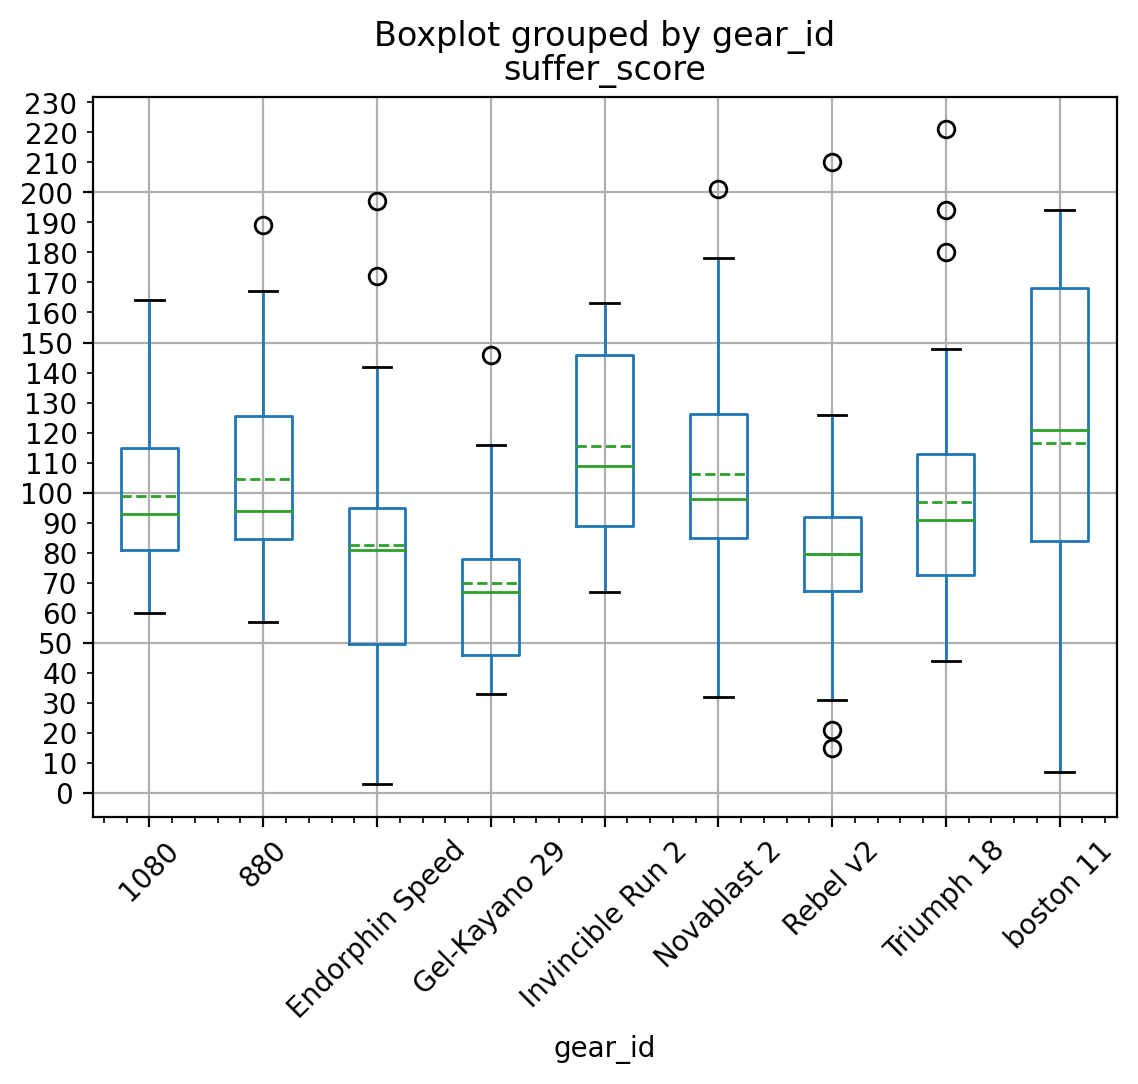
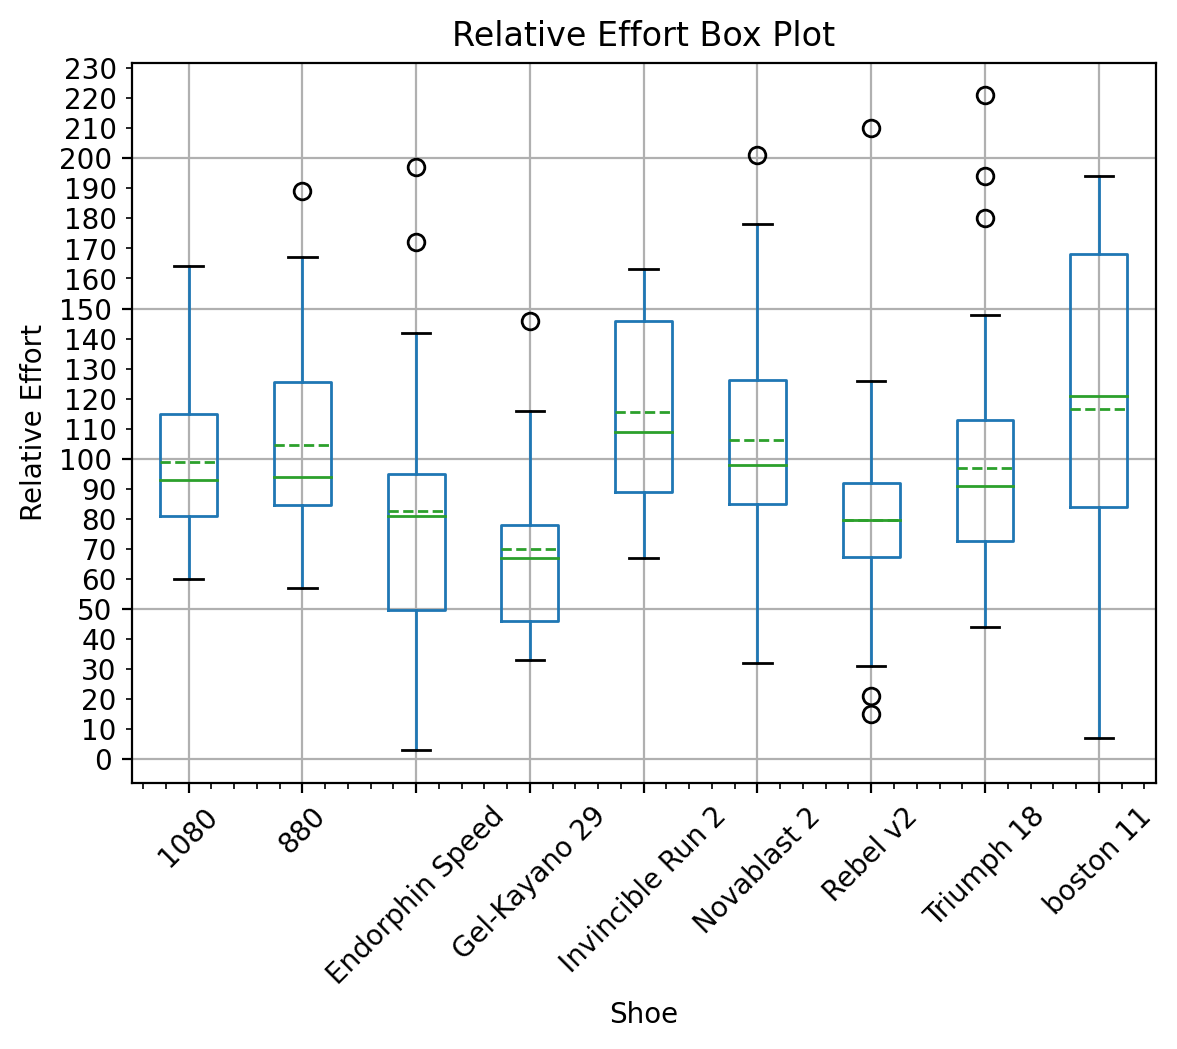
Added login template, updated README.md, cleaned up various things

diff --git a/main.py b/main.py
@@ -201,9 +201,11 @@ ax9 = df.boxplot(by='gear_id', column=['suffer_score'], showmeans=True, meanline
 plt.xticks(rotation=45)
 plt.minorticks_on()
 ax9.yaxis.set_minor_formatter(plticker.ScalarFormatter())
+ax9.get_figure().suptitle('')
 ax9.set_xlabel('Shoe')
 ax9.set_ylabel('Relative Effort')
 ax9.set_title('Relative Effort Box Plot')
+fig9.tight_layout()
 plt.savefig('relative_effort_box_plot', bbox_inches='tight', dpi=200)
 
 # This boxplot is using the un-grouped dataframe (df) instead of the dataframe grouped by gear (df2)
@@ -212,9 +214,11 @@ ax10 = df.boxplot(by='gear_id', column=['distance'], showmeans=True, meanline=Tr
 plt.xticks(rotation=45)
 plt.minorticks_on()
 ax10.yaxis.set_minor_formatter(plticker.ScalarFormatter())
+ax10.get_figure().suptitle('')
 ax10.set_xlabel('Shoe')
 ax10.set_ylabel('Distance')
 ax10.set_title('Distance Box Plot')
+fig10.tight_layout()
 plt.savefig('distance_box_plot', bbox_inches='tight', dpi=200)
 
 display(df2)
